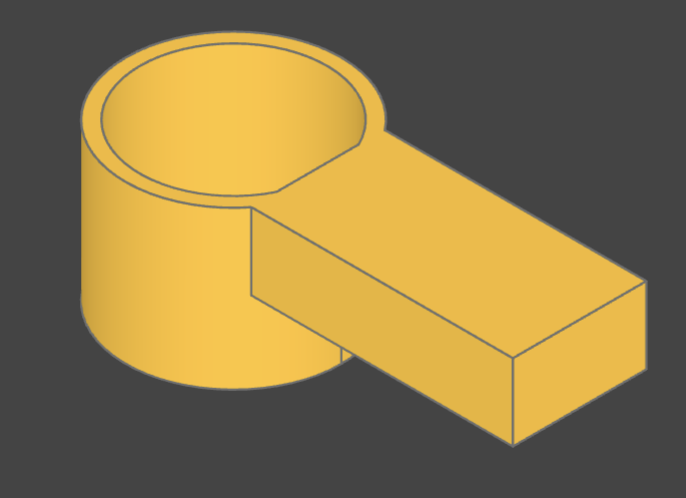
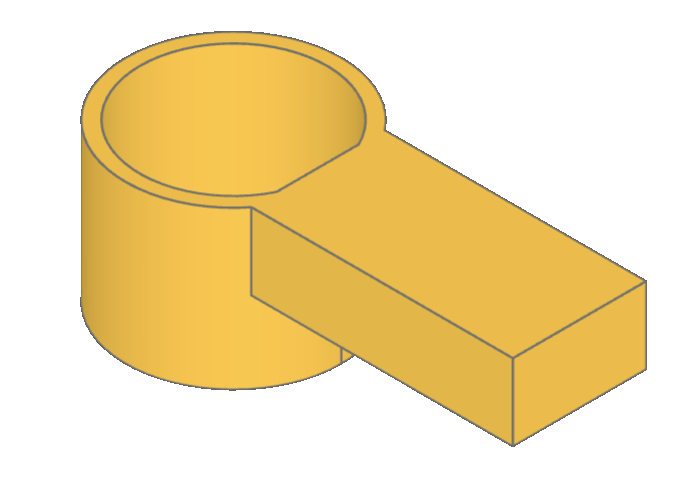
Refactor code structure for improved readability and maintainability

diff --git a/secciones/materiales_metodos.tex b/secciones/materiales_metodos.tex
@@ -130,3 +130,11 @@ La Figura~\ref{fig:software_radiculas} presenta una captura de pantalla de la in
     \caption{Interfaz del software desarrollado para el procesamiento de imágenes y la obtención de parámetros cuantitativos a partir de fotografías de semillas germinadas.}
     \label{fig:software_radiculas}
 \end{figure}
+
+\subsection{Experimentos control negativo}
+
+Con el objetivo de caracterizar la variabilidad basal del sistema experimental y establecer una línea de referencia para la comparación con los tratamientos magnéticos, se realizaron tres experimentos control independientes en los que las semillas no estuvieron expuestas a ningún campo magnético. Estos experimentos se llevaron a cabo en las fechas 04/04/2026, 28/04/2026 y 07/05/2026.
+
+Cada experimento control consistió en 27 bandejas experimentales, distribuidas en 3 pisos (A, B, C) y 9 posiciones, siguiendo la misma disposición geométrica y el mismo protocolo de germinación, registro fotográfico y procesamiento de imágenes que los experimentos con tratamiento. No se colocaron imanes en ninguna de las bandejas durante la etapa de exposición.
+
+El diseño repetido en el tiempo permitió evaluar la reproducibilidad del protocolo y cuantificar la variabilidad interexperimento atribuible a factores no controlados, como fluctuaciones ambientales o diferencias entre lotes de semillas. Asimismo, el diseño espacial (piso y posición) posibilitó la detección de posibles sesgos sistemáticos dentro del montaje experimental, información relevante para la interpretación de los resultados de los experimentos con tratamiento.

diff --git a/secciones/agradecimientos.tex b/secciones/agradecimientos.tex
@@ -18,7 +18,7 @@ A \textbf{Tobías Lo Gatto}, una joya oculta que la vida puso en mi camino. En m
 
 \bigskip
 
-A \textbf{Mariana Milán}, mi psicóloga, por acompañarme con una sensibilidad tan particular y valiente. Gracias por ayudarme a reconstruirme cuando fue necesario y por sostener con tanto cuidado mi proceso hacia una versión más completa e íntegra de mí misma.
+A \textbf{Mariana Milán}, por acompañarme con una sensibilidad tan particular y valiente. Gracias por ayudarme a reconstruirme cuando fue necesario y por sostener con tanto cuidado mi proceso hacia comprenderme más íntegramente como persona.
 
 
 \bigskip